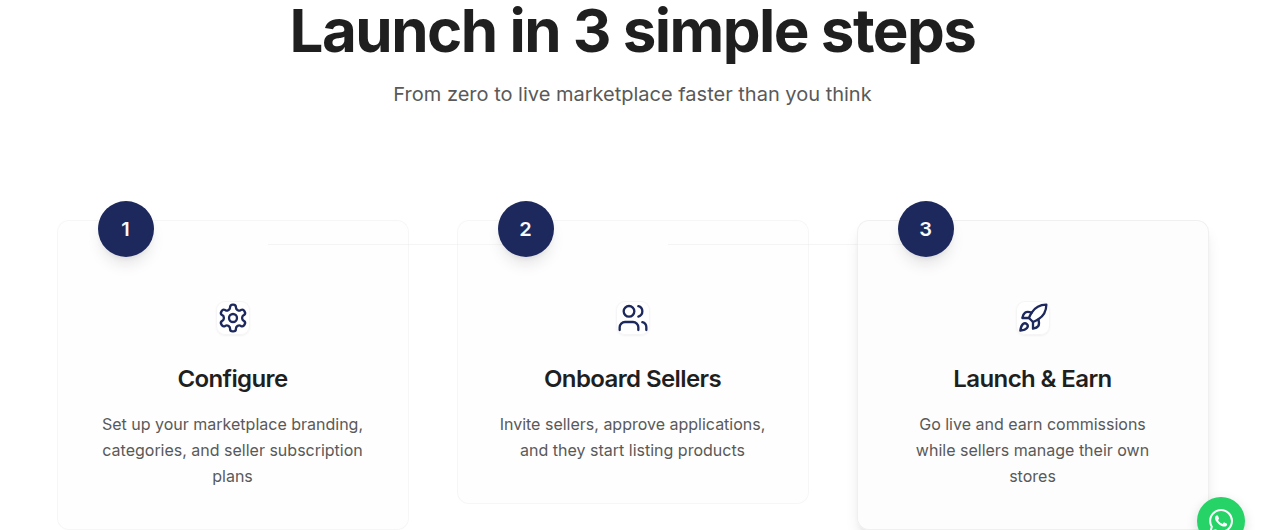
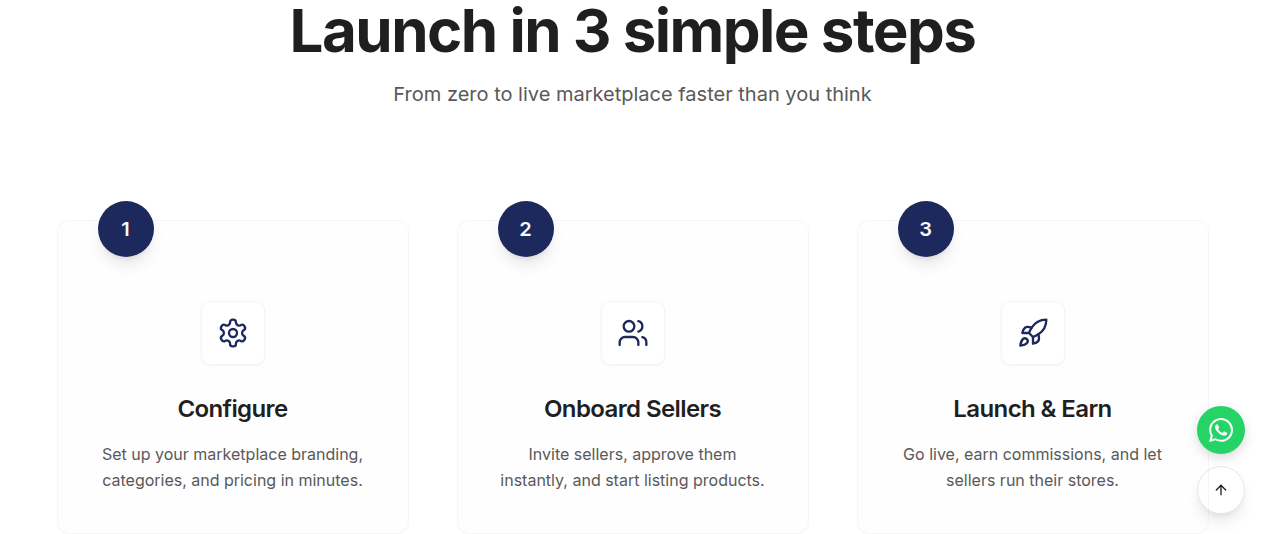
Update descriptions for marketplace setup and seller onboarding steps
Refactor descriptions in the HowItWorks component to improve clarity and conciseness, particularly for marketplace branding, seller onboarding, and commission earning.

Replit-Commit-Author: Agent
Replit-Commit-Session-Id: 04cb6ff8-4a9c-4c91-a0d9-3be49e0e832b
Replit-Commit-Checkpoint-Type: intermediate_checkpoint
Replit-Commit-Event-Id: 5ae67bf6-2049-495f-b89a-4f4845b58c57
Replit-Commit-Screenshot-Url: https://storage.googleapis.com/screenshot-production-us-central1/097cb89b-9e31-41dd-bc95-b02a907c2f38/04cb6ff8-4a9c-4c91-a0d9-3be49e0e832b/UKqmlb8

diff --git a/client/src/components/HowItWorks.tsx b/client/src/components/HowItWorks.tsx
@@ -5,17 +5,17 @@ export default function HowItWorks() {
     {
       icon: Settings,
       title: 'Configure',
-      description: 'Set up your marketplace branding, categories, and seller subscription plans',
+      description: 'Set up your marketplace branding, categories, and pricing in minutes.',
     },
     {
       icon: Users,
       title: 'Onboard Sellers',
-      description: 'Invite sellers, approve applications, and they start listing products',
+      description: 'Invite sellers, approve them instantly, and start listing products.',
     },
     {
       icon: Rocket,
       title: 'Launch & Earn',
-      description: 'Go live and earn commissions while sellers manage their own stores',
+      description: 'Go live, earn commissions, and let sellers run their stores.',
     },
   ];
 
